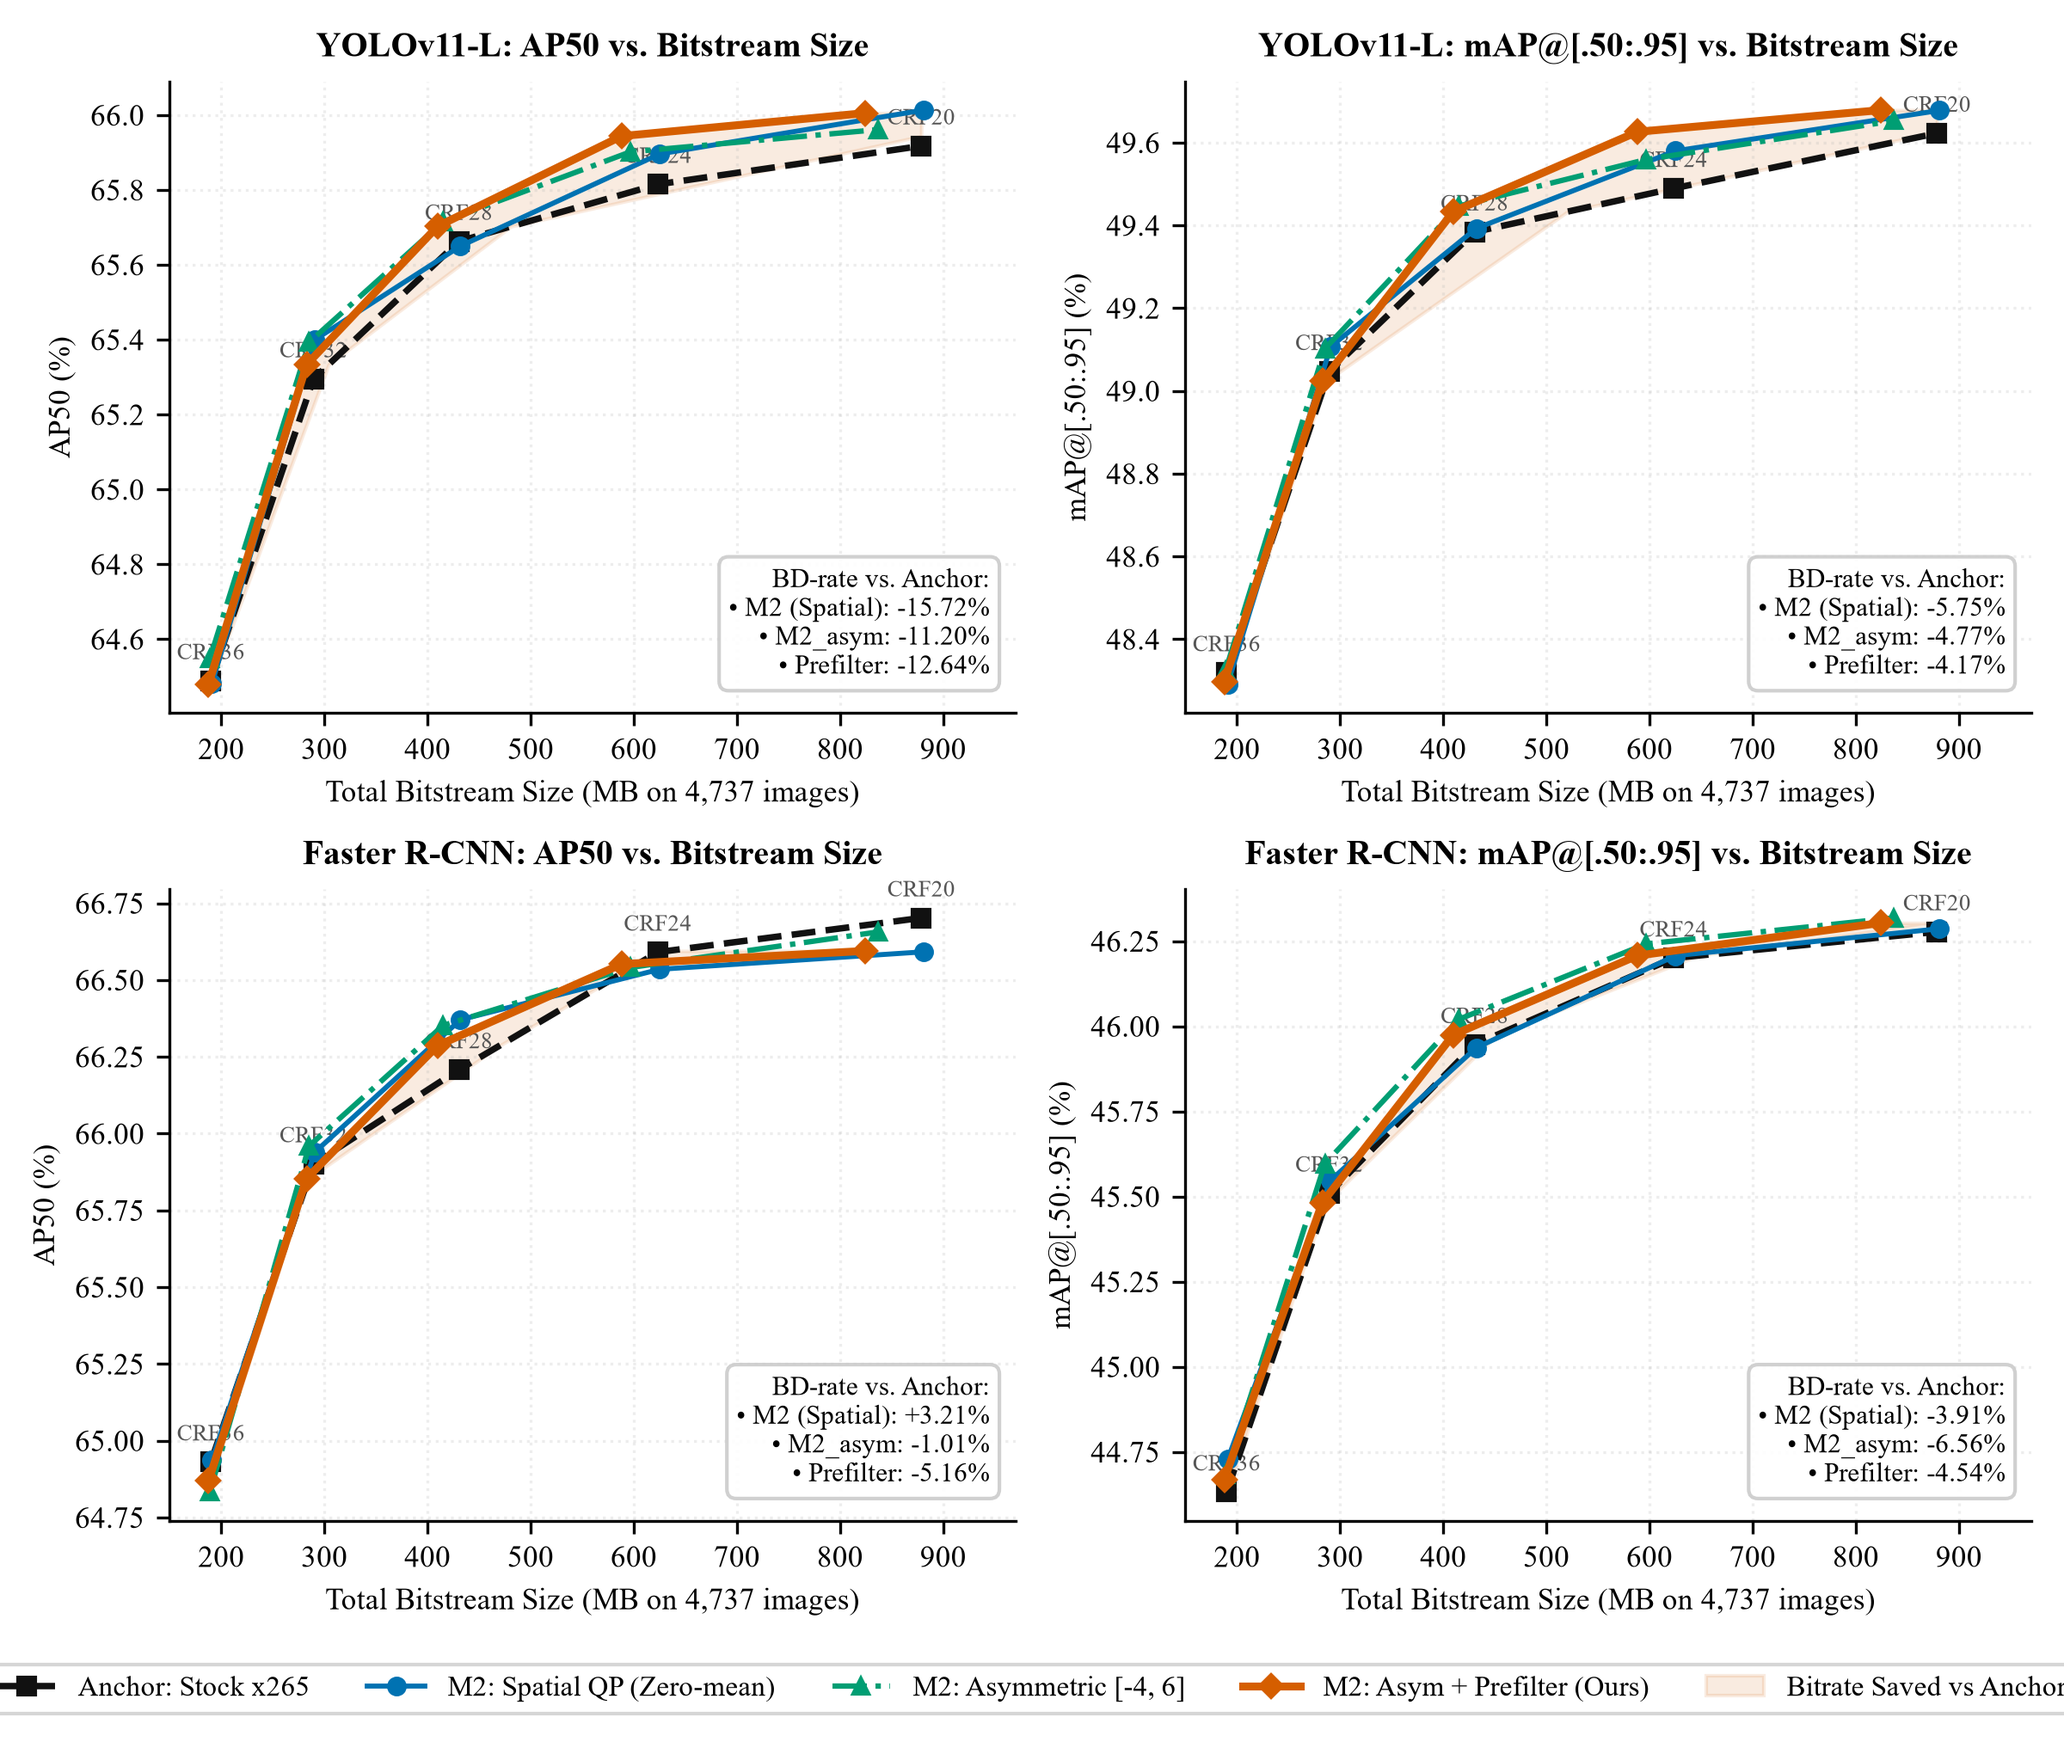
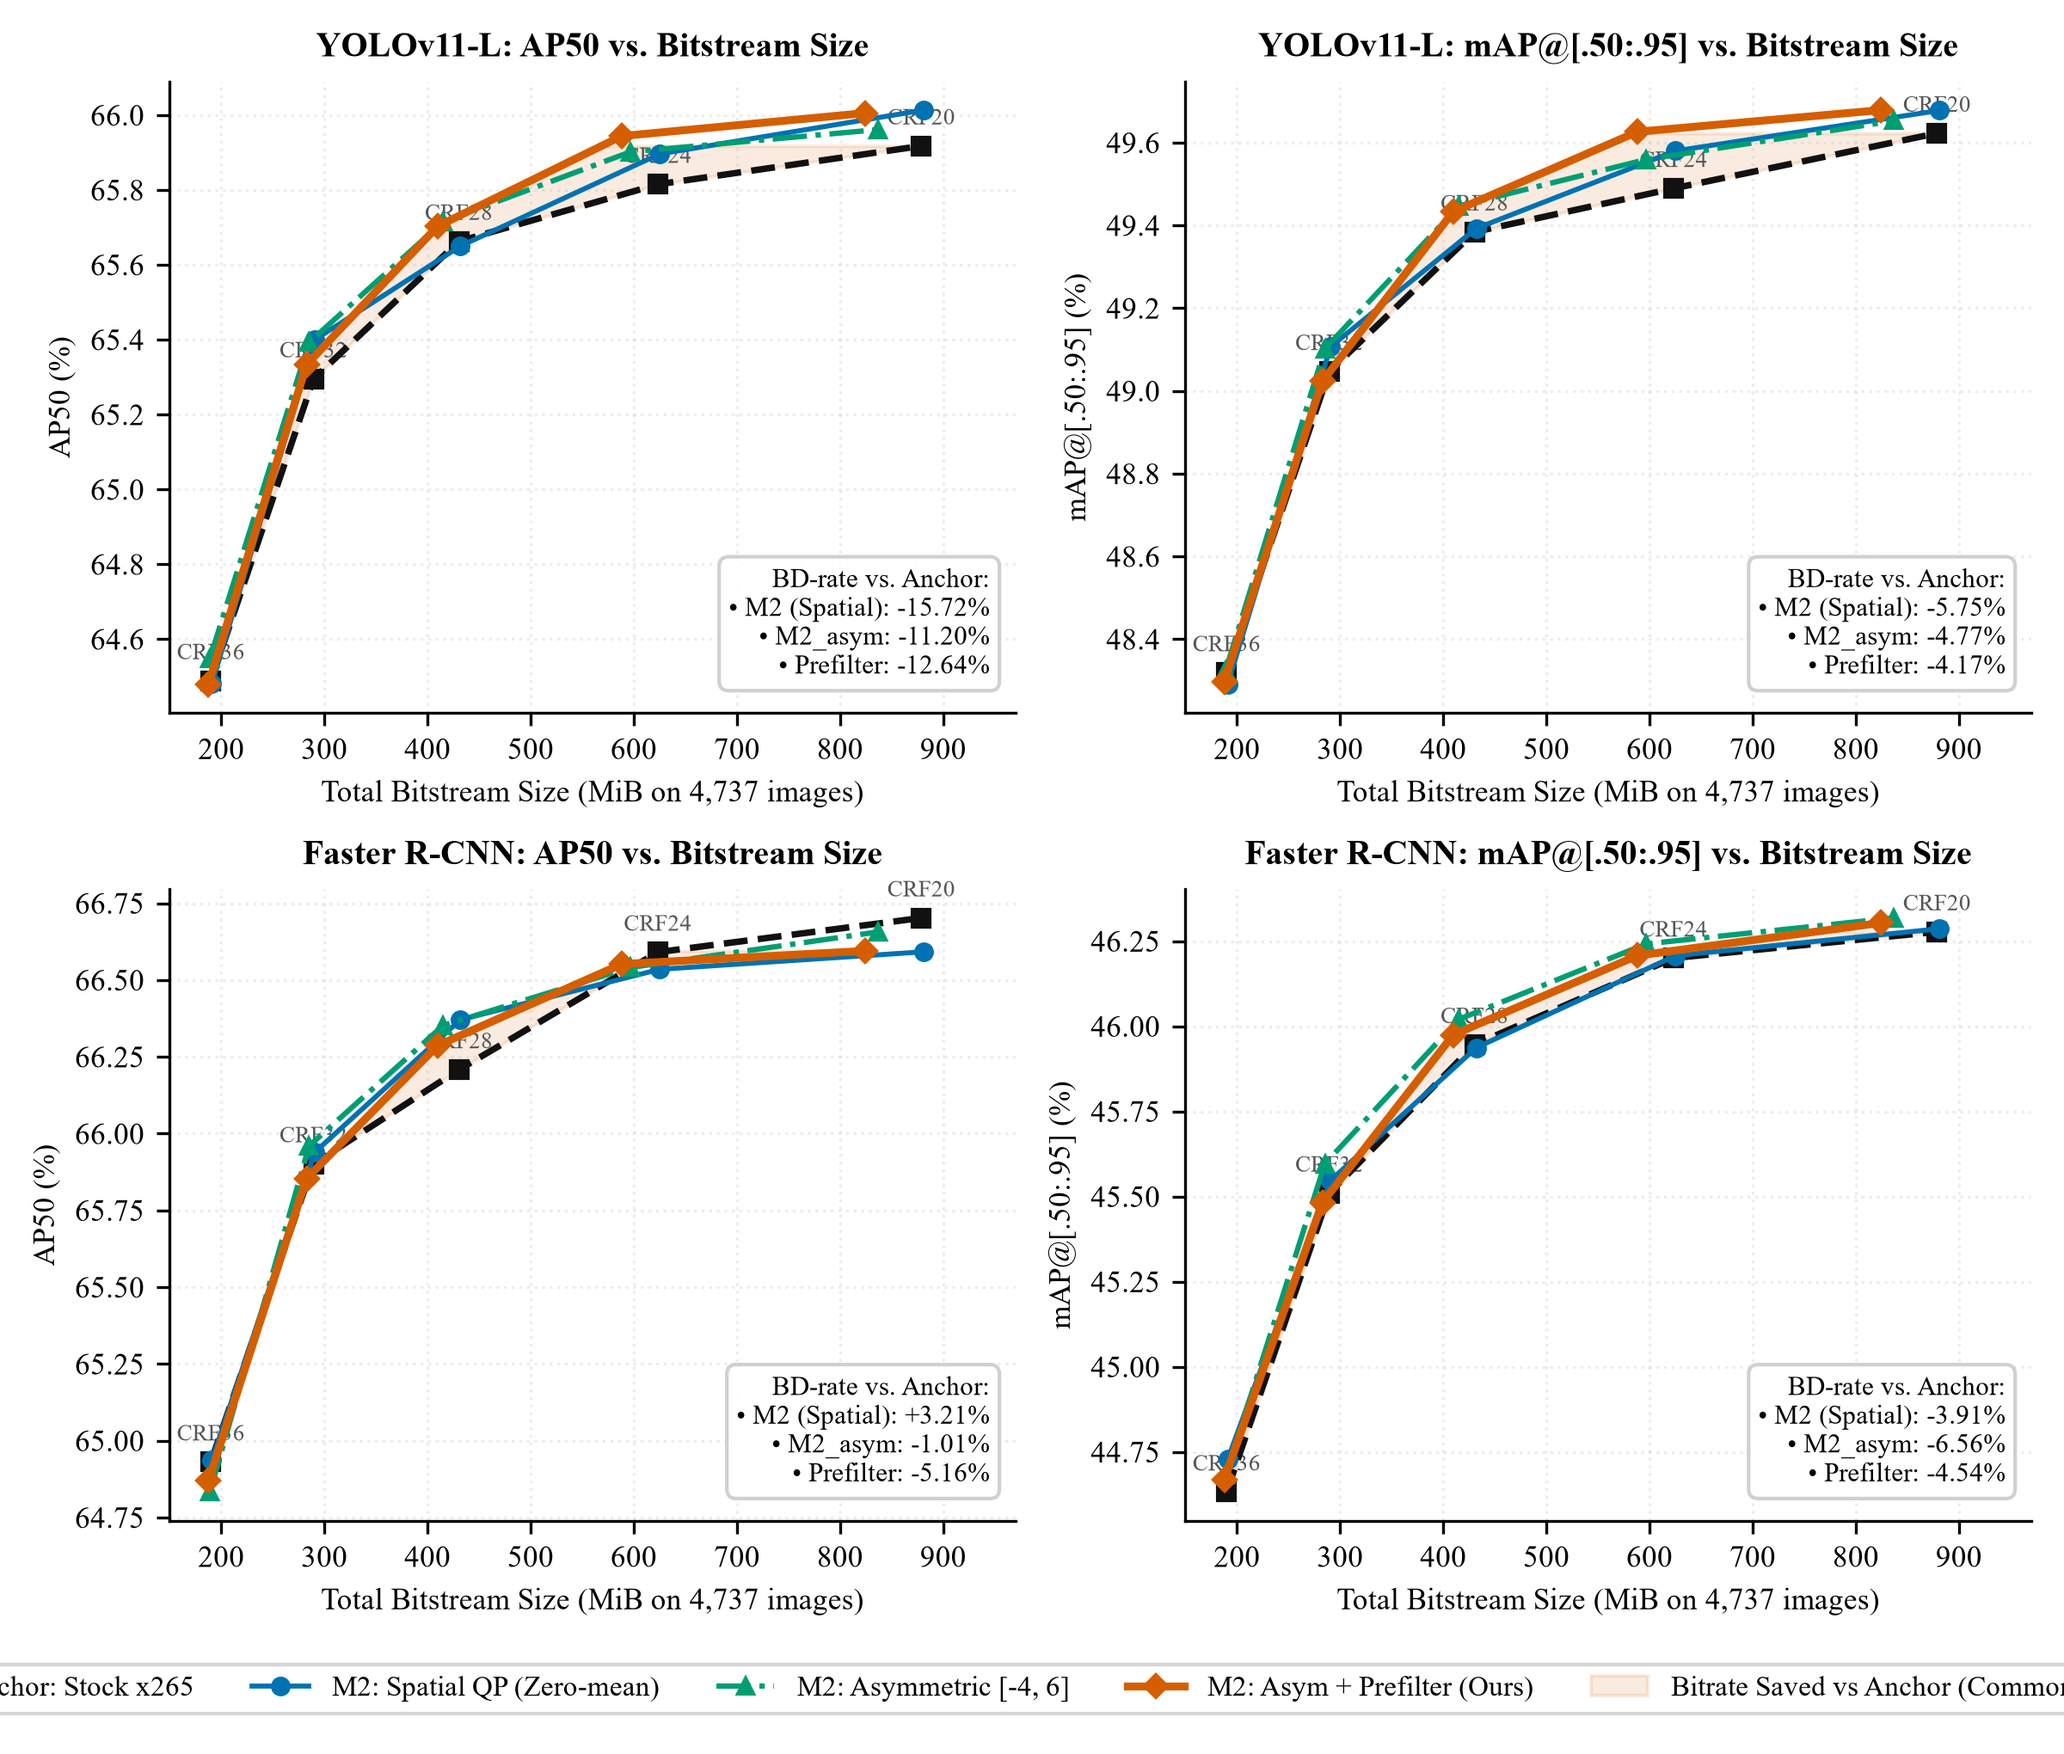
fix(plot): update axis label to MiB and restrict rate-savings shading to common quality support

diff --git a/scripts/plot_rd_vs_anchor.py b/scripts/plot_rd_vs_anchor.py
@@ -151,13 +151,19 @@ def plot_rd_curves_vs_anchor(data, bd_rates, output_dir: Path):
                     linewidth=cfg["linewidth"], marker=cfg["marker"],
                     markersize=4.5, zorder=cfg["zorder"], label=cfg["label"])
             
-        # Shaded region between Anchor and M2_asym_prefilter (showing rate savings)
-        pref_x, pref_y = cand_curves["M2_asym_prefilter"]
-        # Interpolate Anchor to candidate AP levels or vice versa for shaded visual
-        ax.fill_betweenx(
-            pref_y, pref_x, np.interp(pref_y, m1_y, m1_x),
-            color="#D55E00", alpha=0.12, label="Bitrate Saved vs Anchor"
-        )
+        # Shaded region between Anchor and M2_asym_prefilter strictly within common quality support
+        pref_x, pref_y = np.array(cand_curves["M2_asym_prefilter"][0]), np.array(cand_curves["M2_asym_prefilter"][1])
+        m1_x_arr, m1_y_arr = np.array(m1_x), np.array(m1_y)
+        min_ap = max(float(pref_y.min()), float(m1_y_arr.min()))
+        max_ap = min(float(pref_y.max()), float(m1_y_arr.max()))
+        if min_ap < max_ap:
+            grid_y = np.linspace(min_ap, max_ap, 100)
+            interp_pref_x = np.interp(grid_y, pref_y, pref_x)
+            interp_m1_x = np.interp(grid_y, m1_y_arr, m1_x_arr)
+            ax.fill_betweenx(
+                grid_y, interp_pref_x, interp_m1_x,
+                color="#D55E00", alpha=0.12, label="Bitrate Saved vs Anchor (Common Support)"
+            )
         
         # Annotation text box for BD-rates
         bds = bd_rates[det]
@@ -178,7 +184,7 @@ def plot_rd_curves_vs_anchor(data, bd_rates, output_dir: Path):
                 bbox=dict(boxstyle="round,pad=0.35", facecolor="white", edgecolor="#cccccc", alpha=0.92))
         
         ax.set_title(title, fontweight="bold", pad=7)
-        ax.set_xlabel("Total Bitstream Size (MB on 4,737 images)")
+        ax.set_xlabel("Total Bitstream Size (MiB on 4,737 images)")
         ax.set_ylabel(ylabel)
         ax.set_xlim(150, 970)
         
